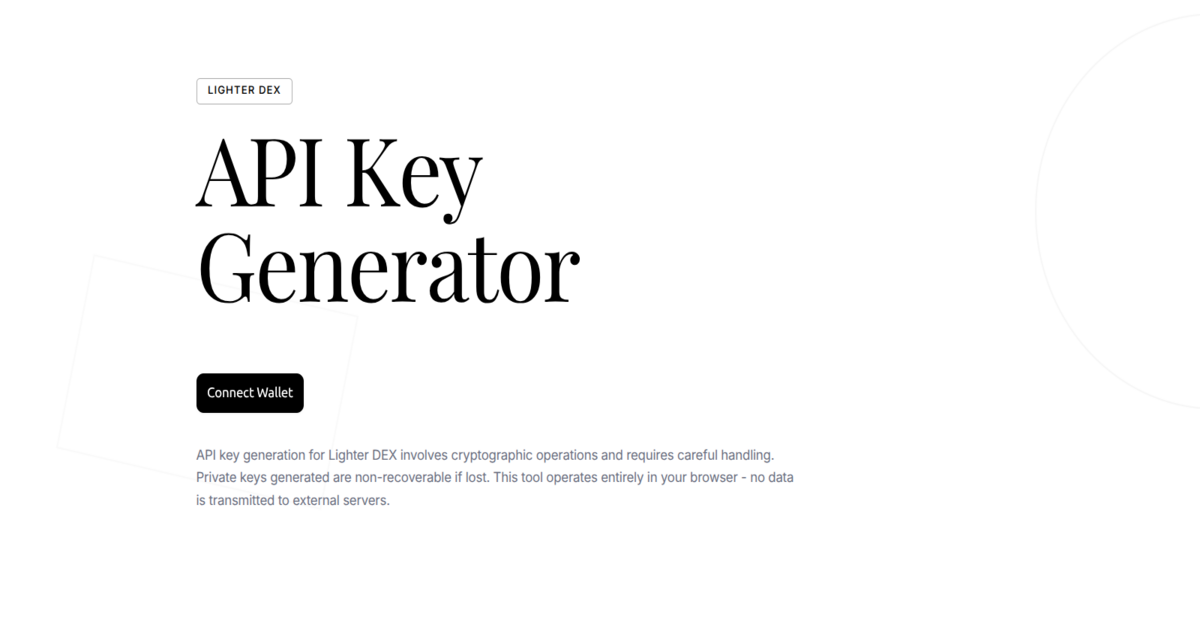
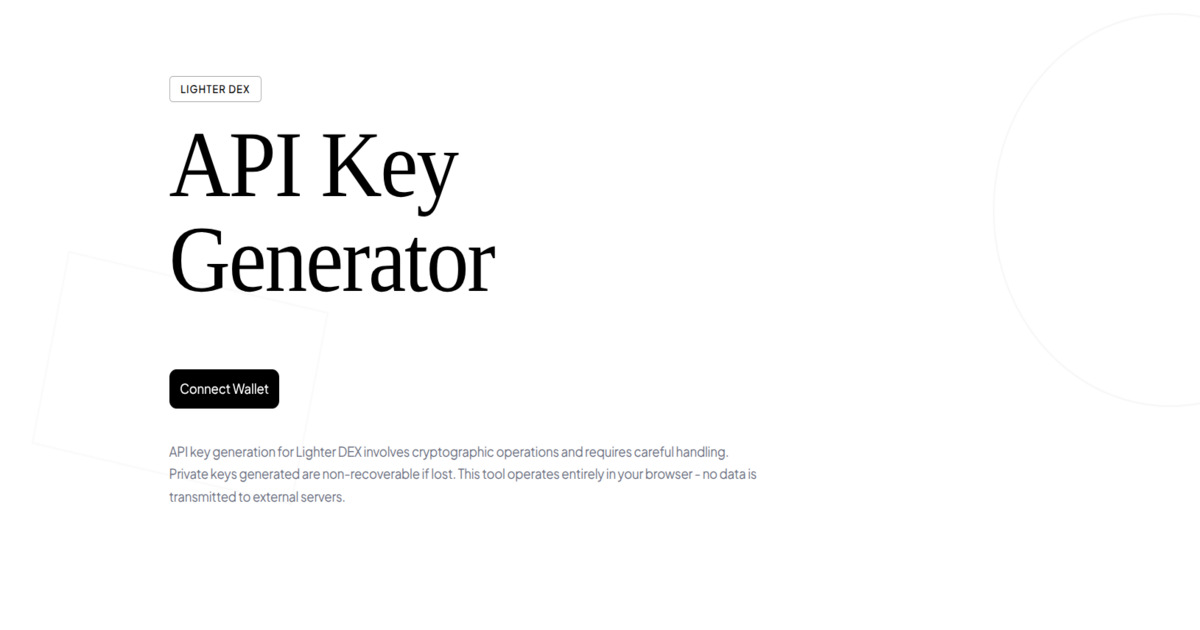
font update

diff --git a/src/components/MultiWalletKeyGenerator.tsx b/src/components/MultiWalletKeyGenerator.tsx
@@ -568,7 +568,7 @@ export function MultiWalletKeyGenerator({ network }: MultiWalletKeyGeneratorProp
     <Card className="card-hover shadow-glow animate-slide-up">
       <CardHeader className="p-6 sm:p-8 pb-4 sm:pb-6">
         <div className="space-y-2">
-          <CardTitle className="flex items-center gap-2 text-lg sm:text-xl md:text-2xl font-bold tracking-tight">
+          <CardTitle className="flex items-center gap-2 text-lg sm:text-xl md:text-2xl font-medium tracking-tight">
             <Wallet className="h-4 w-4 sm:h-5 sm:w-5 text-primary" />
             <span className="flex-1">Multi-Account Key<br className="sm:hidden" /> Generation</span>
             <Badge variant="secondary" className="text-[10px] sm:text-xs bg-primary/10 border-primary/20 font-mono animate-pulse-soft">Beta</Badge>
@@ -587,7 +587,7 @@ export function MultiWalletKeyGenerator({ network }: MultiWalletKeyGeneratorProp
                   <Info className="h-3.5 w-3.5 sm:h-4 sm:w-4 text-primary dark:text-white" />
                 </div>
                 <div className="flex-1 space-y-3 sm:space-y-4">
-                  <h3 className="text-sm sm:text-base font-semibold tracking-tight">Multi-account generation workflow</h3>
+                  <h3 className="text-sm sm:text-base font-medium tracking-tight">Multi-account generation workflow</h3>
                   <div className="space-y-2 sm:space-y-3">
                     <div className="flex gap-2 sm:gap-3">
                       <span className="flex-shrink-0 w-5 h-5 sm:w-6 sm:h-6 rounded-full bg-primary/10 dark:bg-white/10 text-[10px] sm:text-xs font-medium flex items-center justify-center">1</span>
@@ -863,7 +863,7 @@ export function MultiWalletKeyGenerator({ network }: MultiWalletKeyGeneratorProp
                   <Info className="h-3.5 w-3.5 sm:h-4 sm:w-4 text-blue-600 dark:text-blue-400" />
                 </div>
                 <div className="flex-1 space-y-2.5 sm:space-y-3">
-                  <h3 className="text-sm sm:text-base font-semibold tracking-tight">Tips for smooth operation</h3>
+                  <h3 className="text-sm sm:text-base font-medium tracking-tight">Tips for smooth operation</h3>
                   <div className="space-y-2 sm:space-y-2.5">
                     <div className="flex items-start gap-1.5 sm:gap-2">
                       <span className="text-xs sm:text-body-small text-secondary">•</span>
@@ -927,7 +927,7 @@ export function MultiWalletKeyGenerator({ network }: MultiWalletKeyGeneratorProp
                           <CheckCircle2 className="h-4 w-4 sm:h-5 sm:w-5 text-green-500" />
                         </div>
                         <div className="min-w-0">
-                          <h3 className="text-base sm:text-lg font-semibold">
+                          <h3 className="text-base sm:text-lg font-medium">
                             API Key Generated
                           </h3>
                           <p className="text-xs sm:text-sm text-muted-foreground mt-0.5 sm:mt-1">

diff --git a/src/components/AccountCheck.tsx b/src/components/AccountCheck.tsx
@@ -209,7 +209,7 @@ export function AccountCheck({ address, onAccountFound, onNetworkChange }: Accou
                       <div className="flex items-start justify-between gap-2">
                         <div className="min-w-0 flex-1">
                           <div className="flex items-center gap-2 flex-wrap">
-                            <span className="font-semibold text-base">
+                            <span className="font-medium text-base">
                               {accounts[0].index > 1000000 ? 'Sub-Account' : 'Main Account'}
                             </span>
                             <span className="text-sm text-muted-foreground break-all">#{accounts[0].index}</span>
@@ -261,7 +261,7 @@ export function AccountCheck({ address, onAccountFound, onNetworkChange }: Accou
                           <div className="flex items-start justify-between gap-2">
                             <div className="min-w-0 flex-1">
                               <div className="flex items-center gap-2 flex-wrap">
-                                <span className="font-semibold text-base">{accountLabel}</span>
+                                <span className="font-medium text-base">{accountLabel}</span>
                                 <span className="text-sm text-muted-foreground break-all">#{account.index}</span>
                               </div>
                               <div className="text-xs text-muted-foreground font-mono mt-1">

diff --git a/src/components/BulkKeyGenerator.tsx b/src/components/BulkKeyGenerator.tsx
@@ -260,7 +260,7 @@ export function BulkKeyGenerator({ accountIndex, network }: BulkKeyGeneratorProp
     <Card className="card-hover shadow-glow animate-slide-up">
       <CardHeader className="p-6 sm:p-8 pb-4 sm:pb-6">
         <div className="space-y-2">
-          <CardTitle className="flex items-center gap-2 text-xl sm:text-2xl font-bold tracking-tight">
+          <CardTitle className="flex items-center gap-2 text-xl sm:text-2xl font-medium tracking-tight">
             <Layers className="h-5 w-5 text-primary" />
             Bulk Key Generation
             <Badge variant="secondary" className="ml-auto text-xs bg-primary/10 border-primary/20 font-mono animate-pulse-soft">Beta</Badge>
@@ -458,7 +458,7 @@ export function BulkKeyGenerator({ accountIndex, network }: BulkKeyGeneratorProp
                           <CheckCircle2 className="h-4 w-4 sm:h-5 sm:w-5 text-green-500" />
                         </div>
                         <div className="min-w-0">
-                          <h3 className="text-base sm:text-lg font-semibold">
+                          <h3 className="text-base sm:text-lg font-medium">
                             API Key #{key.keyIndex} Generated Successfully
                           </h3>
                           <p className="text-xs sm:text-sm text-muted-foreground mt-0.5 sm:mt-1">

diff --git a/src/index.css b/src/index.css
@@ -1,4 +1,4 @@
-@import url('https://fonts.googleapis.com/css2?family=Playfair+Display:wght@400;700;900&family=Inter:wght@300;400;500;600;700&display=swap');
+@import url('https://fonts.googleapis.com/css2?family=Plus+Jakarta+Sans:wght@300;400;500;600;700&family=JetBrains+Mono:wght@400;500;600&display=swap');
 
 @tailwind base;
 @tailwind components;
@@ -58,16 +58,16 @@
   body {
     background-color: hsl(var(--background));
     color: hsl(var(--foreground));
-    font-family: 'Inter', -apple-system, BlinkMacSystemFont, 'Segoe UI', 'Roboto', sans-serif;
+    font-family: 'Plus Jakarta Sans', -apple-system, BlinkMacSystemFont, 'Segoe UI', 'Roboto', sans-serif;
     font-feature-settings: "rlig" 1, "calt" 1;
     -webkit-font-smoothing: antialiased;
     -moz-osx-font-smoothing: grayscale;
     font-weight: 400;
-    letter-spacing: -0.011em;
+    letter-spacing: -0.01em;
     line-height: 1.5;
   }
   code, pre {
-    font-family: 'Fira Code', 'Consolas', 'Monaco', 'Andale Mono', 'Ubuntu Mono', monospace;
+    font-family: 'JetBrains Mono', 'Fira Code', 'Consolas', 'Monaco', 'Andale Mono', 'Ubuntu Mono', monospace;
   }
 }
 

diff --git a/src/components/ApiKeyGeneratorFull.tsx b/src/components/ApiKeyGeneratorFull.tsx
@@ -238,7 +238,7 @@ export function ApiKeyGeneratorFull({ accountIndex, network, onApiKeyGenerated }
       <Card className="card-hover shadow-glow animate-slide-up">
       <CardHeader className="p-6 sm:p-8 pb-4 sm:pb-6">
         <div className="space-y-2">
-          <CardTitle className="flex items-center gap-2 text-xl sm:text-2xl font-bold tracking-tight">
+          <CardTitle className="flex items-center gap-2 text-xl sm:text-2xl font-medium tracking-tight">
             <Key className="h-5 w-5 text-primary" />
             Generate API Key
             <Badge variant="secondary" className="ml-auto text-xs bg-primary/10 border-primary/20 font-mono animate-pulse-soft">Full Crypto</Badge>

diff --git a/tailwind.config.js b/tailwind.config.js
@@ -56,8 +56,8 @@ export default {
         sm: "calc(var(--radius) - 4px)",
       },
       fontFamily: {
-        sans: ["-apple-system", "BlinkMacSystemFont", "Segoe UI", "Roboto", "sans-serif"],
-        mono: ["Fira Code", "Consolas", "Monaco", "monospace"],
+        sans: ["Plus Jakarta Sans", "-apple-system", "BlinkMacSystemFont", "Segoe UI", "Roboto", "sans-serif"],
+        mono: ["JetBrains Mono", "Fira Code", "Consolas", "Monaco", "monospace"],
       },
       keyframes: {
         "accordion-down": {

diff --git a/src/components/ConnectKitWrapper.tsx b/src/components/ConnectKitWrapper.tsx
@@ -27,7 +27,7 @@ export function ConnectKitWrapper({ children }: ConnectKitWrapperProps) {
         walletConnectCTA: "both",
       }}
       customTheme={{
-        "--ck-font-family": "system-ui, -apple-system, 'Segoe UI', Roboto, sans-serif",
+        "--ck-font-family": "'Plus Jakarta Sans', system-ui, -apple-system, 'Segoe UI', Roboto, sans-serif",
         "--ck-border-radius": "0.5rem",
         "--ck-connectbutton-font-size": "14px",
         "--ck-connectbutton-font-weight": "500",

diff --git a/src/components/ui/card.tsx b/src/components/ui/card.tsx
@@ -35,7 +35,7 @@ const CardTitle = React.forwardRef<
 >(({ className, ...props }, ref) => (
   <div
     ref={ref}
-    className={cn("font-semibold leading-none tracking-tight", className)}
+    className={cn("font-medium leading-none tracking-tight", className)}
     {...props}
   />
 ))
